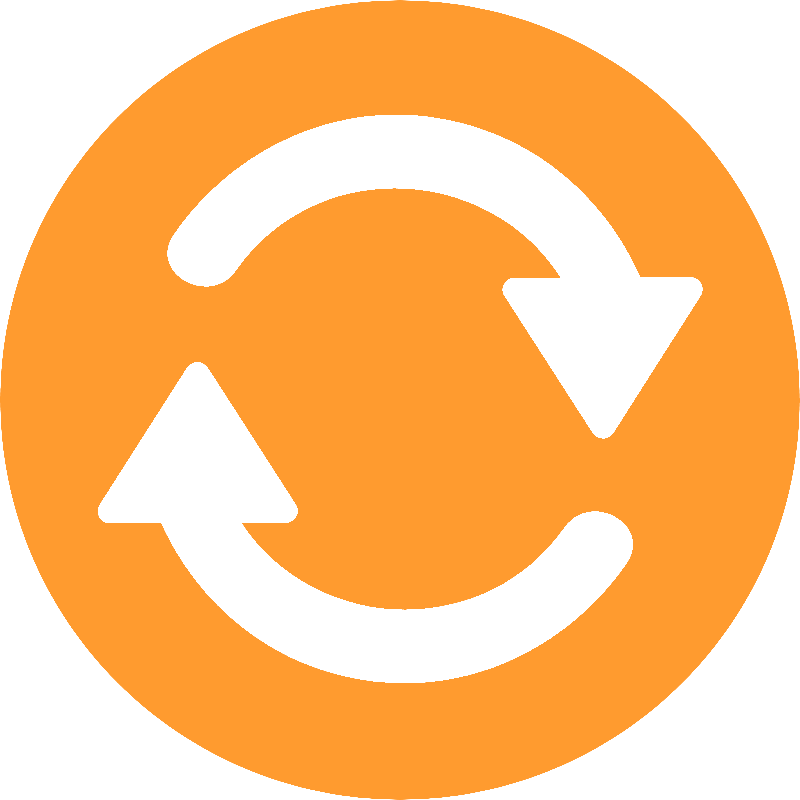
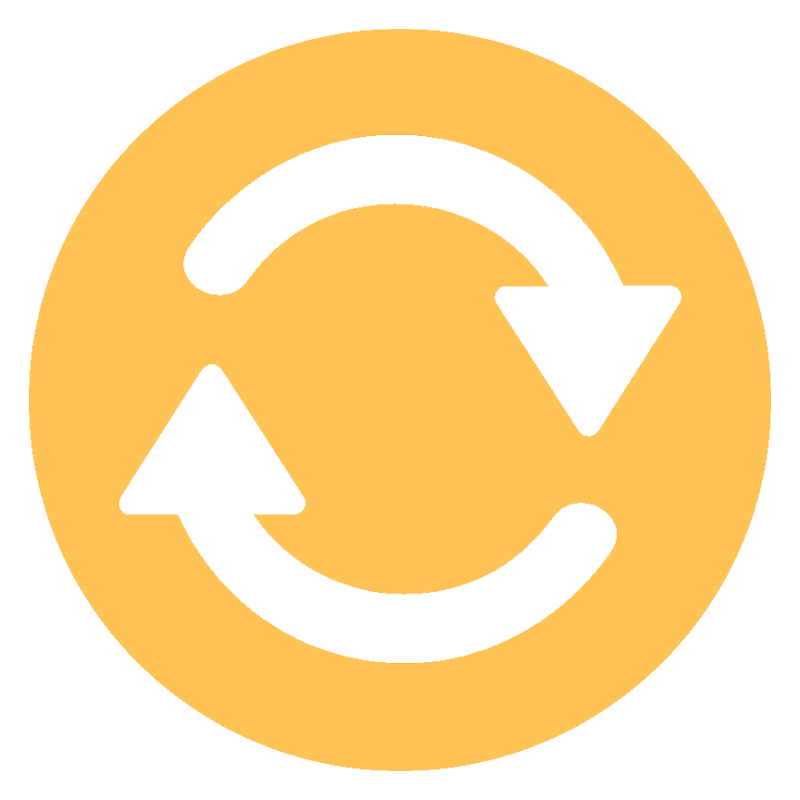
메인페이지 디자인 및 구성 수정
커스텀 마커, 에셋 추가, 디자인 레이아웃 수정, 애니메이션 수정

diff --git a/main_page/main_page.html b/main_page/main_page.html
@@ -47,7 +47,7 @@
         </div>
         <div id="btnBox">    
             <button type="button" id="changeBtn">
-                <img src="../assets/main/switch_path.png" id="change">
+                <img src="../assets/main/switch_path.png" id="change" >
             </button>
         </div>
     </div>
@@ -65,23 +65,6 @@
         </script>
     </div>
         <div class="options">
-            <div id="q1">
-                <h3 id="Questions">같은 성별끼리 합승하기</h3>
-                <div class="sex_switch">
-                    <input type="checkbox" id="switch1">
-                    <label for="switch1" class="switch_label1">
-                    <span class="onf_btn1"></span>
-                    </label>
-                </div>
-            </div>
-            <div id="q2">
-                <h3 id="Questions">최대 인원수</h3>
-                <div class="personCount">
-                    <button id="minus">-</button>
-                    <span id="maxPerson">3</span>
-                    <button id="plus">+</button>
-                </div>
-            </div>
             <div id="q3">
                 <h3 id="Questions">출발 시간</h3>
                 <div class="time_picker">
@@ -90,7 +73,7 @@
                         <select name="timePicker" id="setTime">
                             <script>
                                 selecter = document.getElementById("setTime");
-                                for(let i=0; i<24; i++){
+                                for(let i=1; i<=24; i++){
                                     x = document.createElement("option");
                                     x.innerText = i.toString();
                                     selecter.appendChild(x);
@@ -98,14 +81,17 @@
                             </script>
                         </select>
                     </form>
+                    <div>
+                        <p>&nbsp;:&nbsp;</p>
+                    </div>
                     <form action="#" id="minute">
                         <!--<label id="time_label" for="time">시간</label>-->
                         <select name="minutePicker" id="setMinute">
                             <script>
                                 selecter = document.getElementById("setMinute");
-                                for(let i=0; i<60; i++){
+                                for(let i=0; i<=60; i++){
                                     x = document.createElement("option");
-                                    if(i%5==0){
+                                    if(i%15==0){
                                         x.innerText = i.toString();
                                         selecter.appendChild(x);
                                     }
@@ -113,6 +99,15 @@
                             </script>
                         </select>
                     </form>
+                </div>
+            </div>
+            <div id="q1">
+                <h3 id="Questions">같은 성별끼리 합승하기</h3>
+                <div class="sex_switch">
+                    <input type="checkbox" id="switch1">
+                    <label for="switch1" class="switch_label1">
+                    <span class="onf_btn1"></span>
+                    </label>
                 </div>
             </div>
             <div id="q4">
@@ -123,6 +118,14 @@
                     <span class="onf_btn2"></span>
                     </label>
                 </div>
+            </div>
+            <div id="q2">
+                <h3 id="Questions">최대 인원수</h3>
+                <div class="personCount">
+                    <button id="minus">-</button>
+                    <span id="maxPerson">3</span>
+                    <button id="plus">+</button>
+                </div>
             </div>  
                 <div class="buttons">
                     <button id="cancelBtn">초기화</button>
@@ -132,6 +135,6 @@
         </div>
     </div>
     <script src="./main_pageScript.js"></script>
-    <script src="../nav_neumorph/nav_neumorph.js"></script>
+    <!-- <script src="../nav_neumorph/nav_neumorph.js"></script> -->
 </body>
 </html>

diff --git a/main_page/main_pageScript.js b/main_page/main_pageScript.js
@@ -13,6 +13,12 @@ script.onload = () => {
 };
 document.body.appendChild(script);*/
 
+
+// function rotateImage(img) {
+    
+// };
+
+
 /**드롭다운 리스트 이벤트 */
 document.querySelectorAll("select").forEach(function(e) {
     e.addEventListener("change", function(){
@@ -38,7 +44,7 @@ function setMarkers(values, which){
             LatLng[0]=35.8625;
             LatLng[1]=129.1945;
             break;
-        case "schoolyard":
+        case "schoolYard":
             LatLng[0] = 35.860479;
             LatLng[1] = 129.194337;
             break;
@@ -67,8 +73,25 @@ function setMarkers(values, which){
             LatLng[1]=129.202447;
             break;
     }
+    
+    if(which=="start"){
+        imageSize = new kakao.maps.Size(48, 52), // 마커이미지의 크기입니다
+        imageOption = {offset: new kakao.maps.Point(24, 47)}; // 마커이미지의 옵션입니다. 마커의 좌표와 일치시킬 이미지 안에서의 좌표를 설정합니다.
+        var imageSrc = 'https://media.discordapp.net/attachments/1175471776373952572/1178934329993338910/marker_start.png?ex=6577f327&is=65657e27&hm=706b56782aefb14b6658a3b5b3cfa457d34dbbc5040c45ae4b6be4851f5d6f91&=&format=webp&quality=lossless&width=512&height=552'; // 마커이미지의 주소입니다    
+        var markerImage = new kakao.maps.MarkerImage(imageSrc, imageSize, imageOption);
+    }
+    else if(which=="arrive"){
+        imageSize = new kakao.maps.Size(35, 34), // 마커이미지의 크기입니다
+        imageOption = {offset: new kakao.maps.Point(10, 34)}; // 마커이미지의 옵션입니다. 마커의 좌표와 일치시킬 이미지 안에서의 좌표를 설정합니다.
+        var imageSrc = 'https://media.discordapp.net/attachments/1175471776373952572/1178941073549185074/marker_arrive.png?ex=6577f96f&is=6565846f&hm=824c62d35eb3c86f9d3aa2fe83d30c8444aa5014c99e5bebb2e701b312c79ebc&=&format=webp&quality=lossless&width=320&height=308'; // 마커이미지의 주소입니다    
+        var markerImage = new kakao.maps.MarkerImage(imageSrc, imageSize, imageOption);
+    }
+    
     marker = new kakao.maps.Marker({
-        position: new kakao.maps.LatLng(LatLng[0], LatLng[1])
+        position: new kakao.maps.LatLng(LatLng[0], LatLng[1]),
+        image: markerImage
+        
+
     });
 
     //이전 마커 지우기
@@ -127,10 +150,10 @@ function setMarkers(values, which){
             })
             var roadLine = new kakao.maps.Polyline({
                 path: vertexArr,
-                strokeWeight: 3,                  
-                strokeColor: "red", 
-                strokeOpacity: 0.7,               
-                strokeStyle: "shortdashdot"       
+                strokeWeight: 5,                  
+                strokeColor: "#ffc355", 
+                strokeOpacity: 1.0,               
+                strokeStyle: "shortline"       
             });
             PolyLine[0] = roadLine;
             roadLine.setMap(map);
@@ -139,19 +162,34 @@ function setMarkers(values, which){
     }
 }
 
+let degree = 0;
 /** 출발, 도착 위치 바꾸기 - 마커 바뀌는거까지 구현 완*/
-document.getElementById("change").addEventListener("click", function(){
+document.getElementById("changeBtn").addEventListener("click", function(){
     let start = document.getElementById("setStart");
     let arrive = document.getElementById("setArrive");
     let temp = start.value;
     let tmpMarker;
+    let tmpMarkerImage;
 
     start.value = arrive.value;
     arrive.value = temp;
     
+    // console.log(markers[0].getPosition(), " ", markers[1].getPosition());
     tmpMarker = markers[0];
     markers[0] = markers[1];
     markers[1] = tmpMarker;
+    
+    tmpMarkerImage = markers[0].getImage();
+    markers[0].setImage(markers[1].getImage());
+    markers[1].setImage(tmpMarkerImage);
+
+
+    const img = document.querySelector("#change");
+    // console.log(img);
+    degree ++;
+    img.style.transition = "transform 0.7s ease-in-out";
+    img.style.transform = "rotate(" + (180*degree) + "deg)";
+    // console.log(markers[0].get, " ", markers[1].getPosition());
 });
 
 

diff --git a/main_page/main_pageStyle.css b/main_page/main_pageStyle.css
@@ -157,7 +157,7 @@ body{
     border-radius : 12px;
     z-index: 2;
     color : rgb(88, 88, 88);
-    font-size: medium;
+    font-size: 0.9em;
 }
 
 #setBtn {
@@ -171,7 +171,7 @@ body{
     color : rgb(88, 88, 88);
     font-style: bold;
     background: #f8f3ed;
-    font-size: medium;
+    font-size: 0.9em;
 }
 
 .sex_switch{
@@ -249,7 +249,7 @@ body{
 }
   
 #switch1:checked + .switch_label1 .onf_btn1, #switch2:checked + .switch_label2 .onf_btn2 {
-    left: 17vw;
+    left: 2.5em;
     background: #fff;
     box-shadow: 0px 2px 9px rgb(171, 171, 171);
 }
@@ -258,7 +258,7 @@ body{
     position: relative;
     cursor: pointer;
     display: inline-block;
-    width: 17.4vw;
+    width: 4em;
     height: 4vh;
     background: #f8f3ed;
     /* border: 2px solid gray; */
@@ -292,11 +292,12 @@ body{
 
 #setTime, #setMinute{
     font-size: 3vw;
-    width: 20vw;
+    width: 12vw;
     height: 2.5em;
     border-radius: 12px;
     background: #f8f3ed;
     border-color: #f8f3ed;
+    text-align: center;
     box-shadow:  inset 1px 1px 2px #d3cfc9, inset -1px -1px 2px #ffffff;
 }
 
@@ -328,16 +329,11 @@ body{
     
 }
 
-select{
-    /*ios대응*/
-    -webkit-appearance: none;
-    -moz-appearance: none; 
+input, textarea, button, option, select {
     appearance: none;
-}
-
-input{
-    /*ios대응*/
-    appearance: none;
+    -moz-appearance: none;
     -webkit-appearance: none;
+    border-radius: 0;
     -webkit-border-radius: 0;
+    -moz-border-radius: 0;
 }
